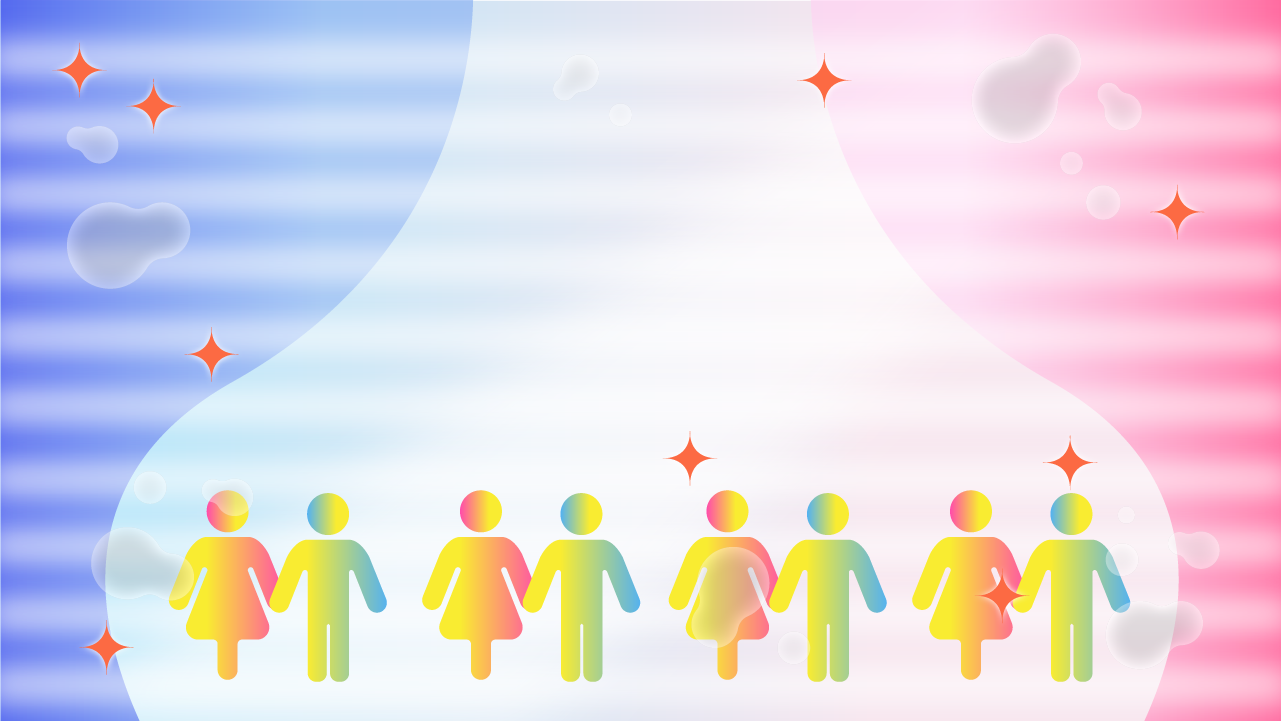
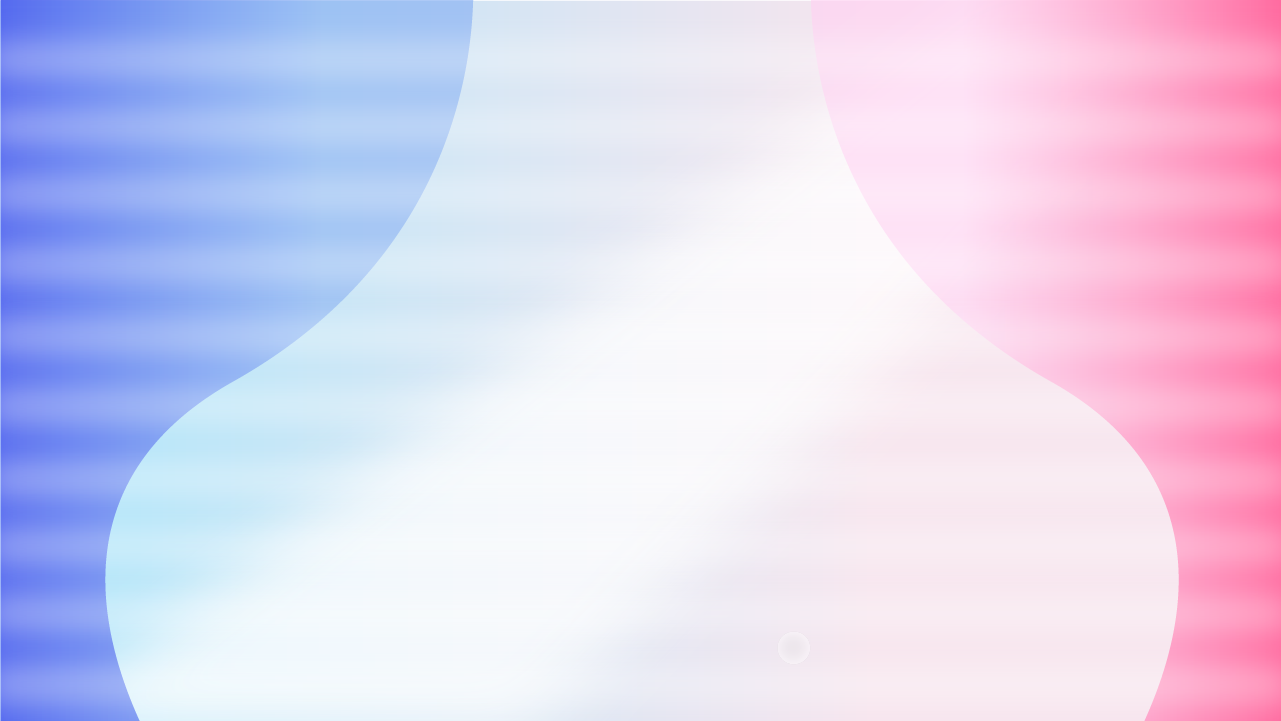
Second room update

diff --git a/sketch.js b/sketch.js
@@ -37,13 +37,21 @@ var spriteLeftWalk;;
 var spriteRightWalk;
 var spriteBackWalk;
 
-// Other sprite variables
+// Instructions sprite variables
 var starSprite;
 var startScreenSprite;
+
+// Sexy sprite variables
 var sexySprite;
 var censorXXXSprite;
 var censorPornSprite;
 var censor18PlusSprite;
+
+// Hetero sprite vairables
+var hetSprite;
+var person1Exclaim;
+var person2Exclaim;
+var person3Exclaim;
 
 // Button variables
 var textWindow;
@@ -71,11 +79,26 @@ var sexyMouse;
 var sexyPointer;
 var sexyCensor;
 
+// Hetero room image variables
+var hetDetail;
+var hetDialogue1;
+var hetDialogue2;
+var hetDialogue3;
+var hetExclaim;
+var hetExit;
+var hetHearts;
+var hetCouple;
+var hetMan;
+var hetWoman;
+
 // Detail movement variables
 var detailMove;
 var detailSpeed;
 
 // Interaction booleans
+var gameNotStarted = true;
+
+// Interaction booleans for sexy room
 var portalOpen = false;
 var sexyRoomActive = false;
 var interactSexyLadies = false;
@@ -84,6 +107,21 @@ var censored18Plus = false;;
 var censoredXXX = false;
 var censoredPorn = false;
 var escActive = false;
+
+// Interaction booleans for het room
+var hetRoomActive = false;
+var interactHetCouple = false;
+var couplesOpen = false;
+var exitActive = false;
+var couple1Done = false;
+var couple2Done = false;
+var couple3Done = false;
+
+// Hetero room movement variables
+var person1Move;
+var person2Move;
+var person3Move;
+var person4Move;
 
 // Allocate Adventure Manager with states table and interaction tables and load animations
 function preload() {
@@ -101,6 +139,11 @@ function preload() {
   sexyDialogue2 = loadImage('assets/sexroom/dialogue2.png')
   sexyDialogue3 = loadImage('assets/sexroom/dialogue3.png')
   sexyPornBlack = loadImage('assets/sexroom/pornblack.png');
+
+  // Load clickable images for hetero room
+  hetDialogue1 = loadImage('assets/hetroom/dialogue1.png')
+  hetDialogue2 = loadImage('assets/hetroom/dialogue2.png')
+  hetDialogue3 = loadImage('assets/hetroom/dialogue3.png')
 
   // Load sprite animations
   spriteFrontIdle = loadAnimation('assets/sprite/em_spritefront1.png', 'assets/sprite/em_spritefront2.png');
@@ -129,26 +172,43 @@ function setup() {
   // Create MC sprite
   playerSprite = createSprite(width/2, height/2);
 
-  // Create other sprites
-  starSprite = createSprite(width/2 - 450, height/2);
-  starSprite.addImage(loadImage('assets/instructions/star.png'));
+  // Create sexy sprites
+    starSprite = createSprite(width/2 - 450, height/2);
+    starSprite.addImage(loadImage('assets/instructions/star.png'));
 
-  startScreenSprite = createSprite(width/2, height/2);
-  startScreenSprite.addImage(loadImage('assets/instructions/screen.png'));
+    startScreenSprite = createSprite(width/2, height/2);
+    startScreenSprite.addImage(loadImage('assets/instructions/screen.png'));
 
-  sexySprite = createSprite(width/2, height/2);
-  sexySprite.addImage(loadImage('assets/sexroom/pornwindow.png'));
+    sexySprite = createSprite(width/2, height/2);
+    sexySprite.addImage(loadImage('assets/sexroom/pornwindow.png'));
 
-  censorXXXSprite = createSprite(1120, 200);
-  censorXXXSprite.addImage(loadImage('assets/sexroom/censorbutton.png'));
-  censor18PlusSprite = createSprite(140, 320);
-  censor18PlusSprite.addImage(loadImage('assets/sexroom/censorbutton.png'));
-  censorPornSprite = createSprite(width/2, 560);
-  censorPornSprite.addImage(loadImage('assets/sexroom/censorbutton.png'));
+    censorXXXSprite = createSprite(1120, 200);
+    censorXXXSprite.addImage(loadImage('assets/sexroom/censorbutton.png'));
+    censor18PlusSprite = createSprite(140, 320);
+    censor18PlusSprite.addImage(loadImage('assets/sexroom/censorbutton.png'));
+    censorPornSprite = createSprite(width/2, 560);
+    censorPornSprite.addImage(loadImage('assets/sexroom/censorbutton.png'));
+
+  // Create hetero sprites
+    hetSprite = createSprite(width/2, height/2);
+    hetSprite.addImage(loadImage('assets/hetroom/straightcouple.png'));
+
+    person1Exclaim = createSprite(910, 50);
+    person1Exclaim.addImage(loadImage('assets/hetroom/exclaim.png'));
+    person2Exclaim = createSprite(690, 500);
+    person2Exclaim.addImage(loadImage('assets/hetroom/exclaim.png'));
+    person3Exclaim = createSprite(230, 120);
+    person3Exclaim.addImage(loadImage('assets/hetroom/exclaim.png'));
 
   // Setup detail bounce variables
   detailMove = 5;
   detailSpeed = .1;
+
+  // Het room movement variables
+  person1Move = 0;
+  person2Move = 0;
+  person3Move = 0;
+  person4Move = 0;
 
   // Control speeds of sprite animations
   spriteFrontIdle.frameDelay = 14;
@@ -331,6 +391,19 @@ textWindowPressed = function() {
     textWindow.height = sexyDialogue3.height;
     censorsOpen = true;
   }
+
+  // If we are in the hetero room and open to dialogue 1, clicking will change to dialogue 2
+  if (textWindow.image === hetDialogue1) {
+    textWindow.image = hetDialogue2;
+    textWindow.width = hetDialogue2.width;
+    textWindow.height = hetDialogue2.height;
+  }
+  else if (textWindow.image === hetDialogue2) {    
+    textWindow.image = hetDialogue3;
+    textWindow.width = hetDialogue3.width;
+    textWindow.height = hetDialogue3.height;
+    couplesOpen = true;
+  }
 }
 
 function setupInteractBox() {
@@ -350,8 +423,9 @@ interactButtonPressed = function() {
   }
 
   // Entering start screen
-  if (portalOpen) {
+  if ( (portalOpen) && (gameNotStarted) ) {
     adventureManager.changeState('Sexy', null);
+    gameNotStarted = false;
   }
 
   // Interacting with sexy ladies
@@ -361,6 +435,15 @@ interactButtonPressed = function() {
     textWindow.image = sexyDialogue1;
     textWindow.width = sexyDialogue1.width;
     textWindow.height = sexyDialogue1.height;
+  }
+
+  // Interacting with hetero couple
+  if (hetRoomActive) {
+    interactHetCouple = true;
+    textWindow.locate(150, 320);
+    textWindow.image = hetDialogue1;
+    textWindow.width = hetDialogue1.width;
+    textWindow.height = hetDialogue1.height;
   }
 }
 
@@ -404,7 +487,7 @@ class InstructionsScreen extends PNGRoom {
 
 class SexRoom extends PNGRoom {
   preload() {
-    // Draw sparkles and bubbles
+    // Load sexy room assets
     sexyDetail = loadImage('assets/sexroom/detail.png');
     sexyEsc = loadImage('assets/sexroom/escbutton.png')
     sexyPorn = loadImage('assets/sexroom/pornwindow.png');
@@ -442,7 +525,7 @@ class SexRoom extends PNGRoom {
       image(sexyPornBlack, width/2 - sexyPornBlack.width / 2, height/2 - sexyPornBlack.height / 2);
     }
 
-    // Draw mouse and cursors on top of images and sexySprite
+    // Draw mouse and cursors on top of images and sexySprite that wiggle left to right
     image(sexyMouse, 1000 + detailMove, 150);
     image(sexyMouse, 180 + detailMove, 520);
     image(sexyPointer, 800 + detailMove, 490);
@@ -496,6 +579,112 @@ class SexRoom extends PNGRoom {
     if ( (censoredXXX) && (censoredPorn) && (censored18Plus) ) {
       escActive = true;
       image(sexyEsc, 50, 50);
+    }
+  }
+}
+
+class HetRoom extends PNGRoom {
+  preload() {
+    // Load hetero room assets
+    hetDetail = loadImage('assets/hetroom/detail.png');
+    hetExit = loadImage('assets/hetroom/exit.png');
+    hetHearts = loadImage('assets/hetroom/floatyhearts.png');
+    hetMan = loadImage('assets/hetroom/man.png');
+    hetWoman = loadImage('assets/hetroom/woman.png');
+  }
+
+  draw() {
+    super.draw();
+    sexyRoomActive = false;
+    hetRoomActive = true;
+
+    // Draw straight couple sprite
+    drawSprite(hetSprite);
+
+    // Draw hearts around sprites that wiggle left to right
+    image(hetHearts, 270 + detailMove, 50);
+
+    // Draw men and women waiting to be paired up
+      // Couple 1
+      image(hetMan, 920, 50 + person1Move);
+      image(hetWoman, 850, 500);
+
+      // Couple 2
+      image(hetMan, 700 - person2Move, 500);
+      image(hetWoman, 400 + person3Move, 500);
+
+      // Couple 3
+      image(hetMan, 240, 120 + person4Move);
+      image(hetWoman, 176, 500);
+
+    // When prompted by dialogue 3, exclaim sprites guide the user to push the couples
+    if (couplesOpen) {
+      drawSprite(person1Exclaim);
+      drawSprite(person2Exclaim);
+      drawSprite(person3Exclaim);
+      if (playerSprite.overlap(person1Exclaim)) {
+        if (person1Move <= 440) {
+          person1Move = person1Move + 10;
+          // Exclaim sprites only disappear when couples are standing together
+          if (person1Move >= 400) {
+            person1Exclaim.remove();
+            couple1Done = true;
+          }
+        }
+      }
+      if (playerSprite.overlap(person2Exclaim)) {
+        if (person2Move <= 109) {
+          person2Move = person2Move + 10;
+          person3Move = person3Move + 10;
+          // Exclaim sprites only disappear when couples are standing together
+          if (person2Move >= 109) {
+            person2Exclaim.remove();
+            couple2Done = true;
+          }
+        }
+      }
+      if (playerSprite.overlap(person3Exclaim)) {
+        if (person4Move <= 370) {
+          person4Move = person4Move + 10;
+          // Exclaim sprites only disappear when couples are standing together
+          if (person4Move >= 370) {
+            person3Exclaim.remove();
+            couple3Done = true;
+          }
+        }
+      }
+    }
+
+    // Exit sign appears when all couples have been pushed together
+    if ( (couple1Done) && (couple2Done) && (couple3Done) ) {
+      exitActive = true;
+      image(hetExit, 50, 50);
+    }
+
+    // Draw sparkles
+    image(hetDetail, 0, 0 + detailMove);
+
+    // Make sparkles and bubbles in hetDetail bounce
+    if (detailMove > 10) {
+      detailSpeed = -.2;
+    }
+
+    if (detailMove < 0) {
+      detailSpeed = .2;
+    }
+
+    detailMove = detailMove + detailSpeed;
+
+    // The interact button will only prompt if you are overlapping with the hetero couple
+    // Once you interact with them, the button diappears so you can click on the text window
+    if( (playerSprite.overlap(hetSprite)) && (!interactHetCouple) ) {
+      interactButton.locate(playerSprite.position.x - 40, playerSprite.position.y - 140);
+      interactButton.draw();
+    }
+
+    // If you interact with the porn window, the text window appears
+    if( (interactHetCouple) && (!exitActive) ) {
+      textWindow.draw();
     }
   }
 }
